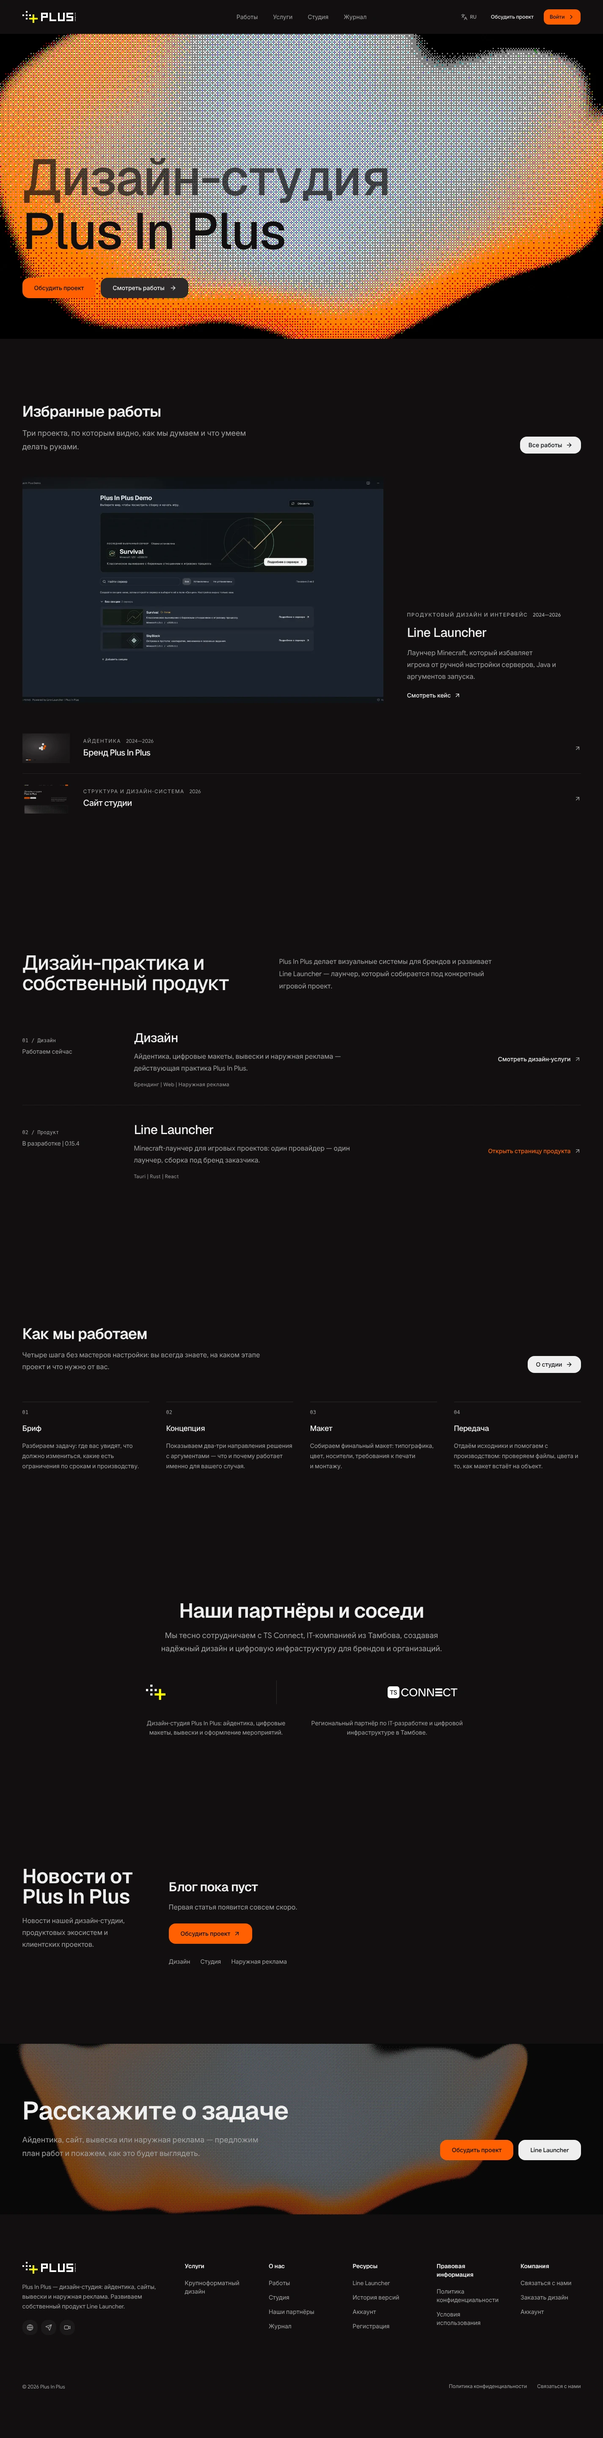
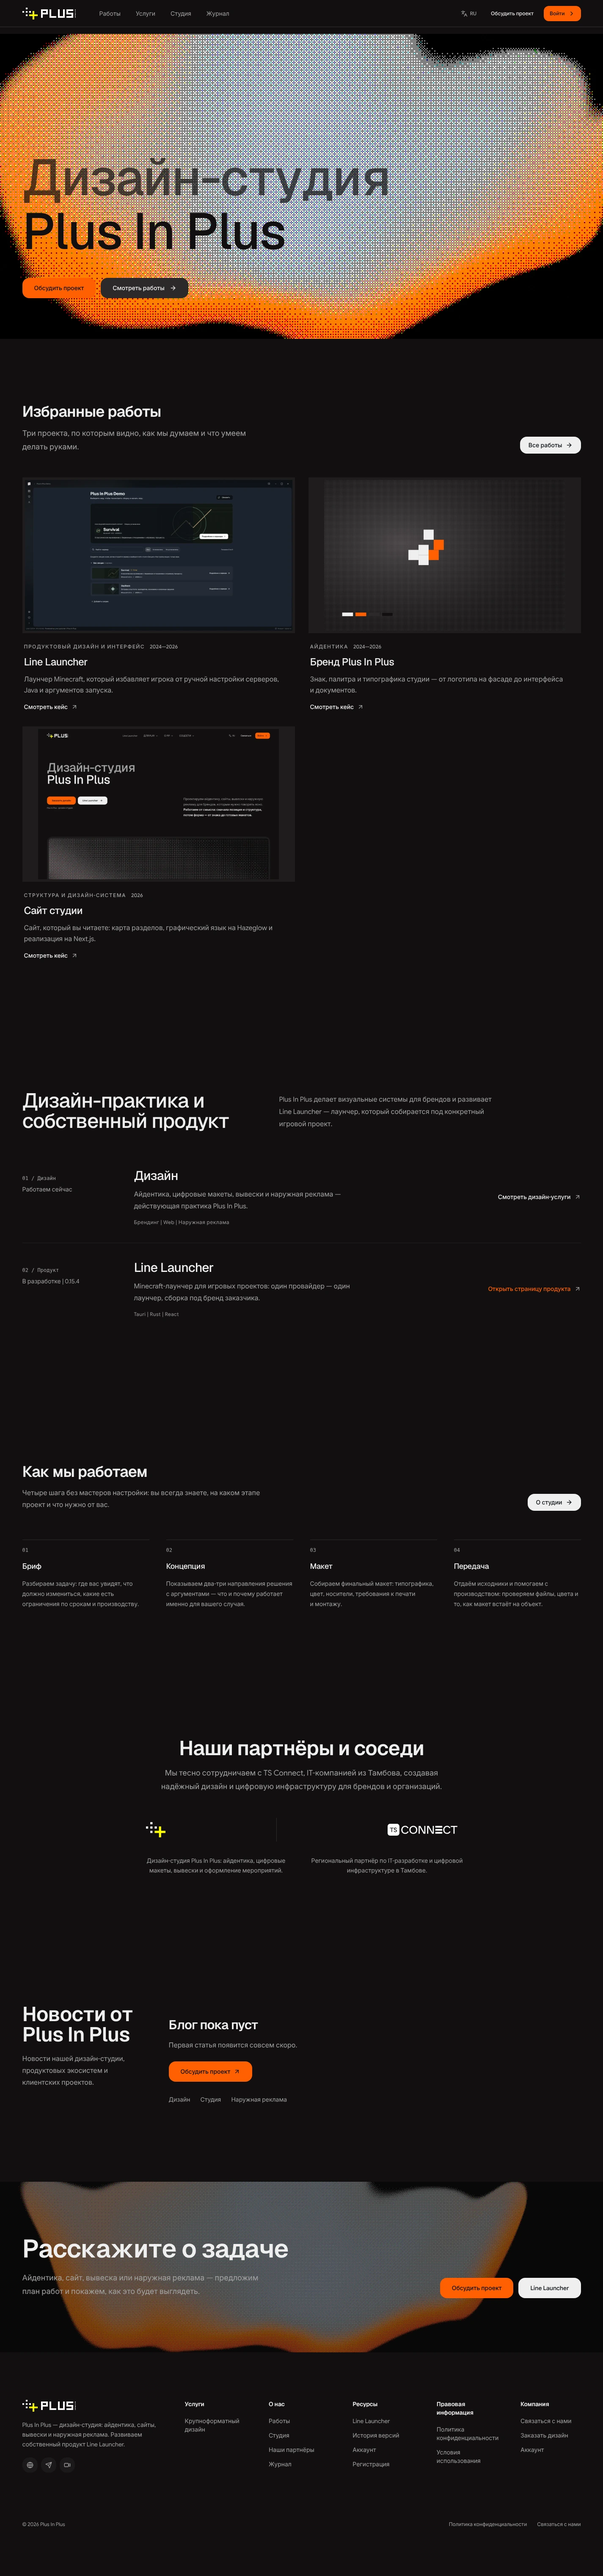
Работы по сетке JetBrains, плотная шапка, метаданные продукта без подписей
- «Работы» и «Избранные работы»: одинаковые карточки в сетке 2 колонки, кадр
  показывается целиком (object-contain в единой рамке 16:9), первый кейс —
  широкая карточка. Ничего не режется по краям, высоты выровнены.
- Шапка: вместо стекла — плотная панель #110F10 высотой 64 px с линией снизу,
  логотип и меню в одну колонку слева, действия справа. Ближе к шапке JetBrains.
- Line Launcher: служебные подписи в метаданных продукта убраны, остались
  только значения — платформы, стек, основа, код.

diff --git a/components/site/work-index.tsx b/components/site/work-index.tsx
@@ -1,11 +1,11 @@
 import Link from "next/link";
-import { ArrowRight, ArrowUpRight } from "lucide-react";
+import { ArrowRight } from "lucide-react";
 
-import { HoverGlow } from "@/components/site/hover-glow";
+import { WorkCard } from "@/components/site/work-card";
 import { Button } from "@/components/ui/button";
 import { getRequestLocale } from "@/lib/request-locale";
 import { getRequestTranslations } from "@/lib/server-i18n";
-import { localizeWorkCases, WORK_CASES, type LocalizedWorkCase } from "@/lib/work-cases";
+import { localizeWorkCases, WORK_CASES } from "@/lib/work-cases";
 import { cn } from "@/lib/utils";
 
 interface WorkIndexProps {
@@ -42,7 +42,6 @@ export async function WorkIndex({
   ]);
   const workLocale = locale === "ru" ? "ru" : "en";
   const items = localizeWorkCases(WORK_CASES, workLocale).slice(0, limit ?? WORK_CASES.length);
-  const [featured, ...rest] = items;
   const Heading = compact ? "h2" : "h1";
 
   return (
@@ -72,103 +71,22 @@ export async function WorkIndex({
           ) : null}
         </div>
 
-        {featured ? (
-          <div className="mt-12 grid gap-8 lg:mt-14 lg:grid-cols-[1.35fr_0.65fr] lg:items-end lg:gap-14">
-            <Link
-              href={`/work/${featured.slug}`}
-              aria-label={featured.title}
-              className="group relative block overflow-hidden bg-white/[0.045] focus-visible:outline-solid focus-visible:outline-2 focus-visible:outline-offset-4 focus-visible:outline-ring"
-            >
-              <img
-                src={featured.cover}
-                alt={featured.coverAlt}
-                loading={compact ? "lazy" : "eager"}
-                decoding="async"
-                className="aspect-[16/10] w-full object-cover object-top opacity-95 transition-opacity duration-500 ease-out group-hover:opacity-100"
-              />
-            </Link>
-
-            <div className="relative flex flex-col gap-4 overflow-hidden lg:pb-2">
-              <HoverGlow pattern={`work:${featured.slug}`} intensity={0.4} />
-              <p className="flex flex-wrap items-center gap-x-3 gap-y-1 text-xs font-medium tracking-[0.12em] text-muted-foreground uppercase">
-                <span>{featured.discipline}</span>
-                <span className="tracking-normal normal-case">{featured.year}</span>
-              </p>
-              <h3 className="text-2xl font-medium tracking-tight text-balance md:text-3xl">
-                <Link
-                  href={`/work/${featured.slug}`}
-                  className="transition-colors hover:text-foreground focus-visible:outline-solid focus-visible:outline-2 focus-visible:outline-offset-4 focus-visible:outline-ring"
-                >
-                  {featured.title}
-                </Link>
-              </h3>
-              <p className="text-sm leading-[1.75] text-muted-foreground md:text-base">
-                {featured.summary}
-              </p>
-              <Link
-                href={`/work/${featured.slug}`}
-                className="group/open mt-1 inline-flex items-center gap-2 text-sm font-medium text-foreground focus-visible:outline-solid focus-visible:outline-2 focus-visible:outline-offset-4 focus-visible:outline-ring"
-              >
-                {t("open")}
-                <ArrowUpRight
-                  aria-hidden="true"
-                  className="size-4 transition-[transform,color] duration-200 group-hover/open:-translate-y-0.5 group-hover/open:translate-x-0.5"
-                />
-              </Link>
-            </div>
-          </div>
-        ) : null}
-
-        {rest.length > 0 ? (
-          <ul className="mt-12 divide-y divide-white/[0.08]">
-            {rest.map((item) => (
-              <WorkRow key={item.slug} item={item} openLabel={t("open")} />
-            ))}
-          </ul>
-        ) : null}
+        {/* Сетка как у JetBrains: одинаковые карточки, один шаг между ними.
+            Кадр показывается целиком (object-contain) — ничего не режется по
+            краям, а подложка карточки держит общий фон под ним. */}
+        <div className="mt-12 grid gap-6 sm:grid-cols-2 lg:mt-14 lg:gap-8">
+          {items.map((item, index) => (
+            <WorkCard
+              key={item.slug}
+              item={item}
+              openLabel={t("open")}
+              featured={!compact && index === 0}
+              className={!compact && index === 0 ? "sm:col-span-2" : undefined}
+            />
+          ))}
+        </div>
       </div>
     </section>
   );
 }
 
-/**
- * Строка портфолио: миниатюра, дисциплина и название. Без карточной
- * подложки — разделители держат ритм, а ссылка реагирует фоном и стрелкой.
- */
-function WorkRow({ item, openLabel }: { item: LocalizedWorkCase; openLabel: string }) {
-  return (
-    <li>
-      <Link
-        href={`/work/${item.slug}`}
-        className="group flex items-center gap-5 py-5 transition-colors hover:bg-white/[0.035] focus-visible:bg-white/[0.05] focus-visible:outline-solid focus-visible:outline-2 focus-visible:outline-offset-2 focus-visible:outline-ring sm:gap-8 sm:py-6"
-      >
-        <span className="relative block w-20 shrink-0 overflow-hidden bg-white/[0.05] sm:w-28">
-          <img
-            src={item.cover}
-            alt=""
-            aria-hidden="true"
-            loading="lazy"
-            decoding="async"
-            className="aspect-[16/10] w-full object-cover object-top opacity-90 transition-opacity duration-300 ease-out group-hover:opacity-100"
-          />
-        </span>
-
-        <span className="min-w-0 flex-1">
-          <span className="flex flex-wrap items-center gap-x-3 gap-y-1 text-xs text-muted-foreground">
-            <span className="tracking-[0.12em] uppercase">{item.discipline}</span>
-            <span>{item.year}</span>
-          </span>
-          <span className="mt-1.5 block truncate text-lg font-medium tracking-tight sm:text-xl">
-            {item.title}
-          </span>
-          <span className="sr-only">{openLabel}</span>
-        </span>
-
-        <ArrowUpRight
-          aria-hidden="true"
-          className="size-4 shrink-0 text-muted-foreground transition-[transform,color] duration-200 group-hover:-translate-y-0.5 group-hover:translate-x-0.5 group-hover:text-foreground"
-        />
-      </Link>
-    </li>
-  );
-}

diff --git a/components/blocks/navbar10.tsx b/components/blocks/navbar10.tsx
@@ -241,15 +241,15 @@ const Navbar10 = () => {
         */}
         <div
           aria-hidden="true"
-          className="site-header-glass pointer-events-none absolute inset-0"
+          className="pointer-events-none absolute inset-0 bg-background [background-image:linear-gradient(to_right,rgba(255,255,255,0.14),rgba(255,255,255,0.14))] [background-position:bottom] [background-repeat:no-repeat] [background-size:100%_1px]"
         />
         <NavigationMenu
           value={openSection}
           onValueChange={setOpenSection}
           onPointerLeave={closeSectionDeferred}
-          className="h-20 max-w-full after:absolute after:inset-0 after:z-40 after:block after:size-full after:bg-transparent after:content-[''] [&>div:last-child>div]:mt-0 [&>div:last-child>div]:rounded-none [&>div:last-child>div]:border-0 [&>div:last-child>div]:border-b-0"
+          className="h-16 max-w-full after:absolute after:inset-0 after:z-40 after:block after:size-full after:bg-transparent after:content-[''] [&>div:last-child>div]:mt-0 [&>div:last-child>div]:rounded-none [&>div:last-child>div]:border-0 [&>div:last-child>div]:border-b-0"
         >
-          <div className="container relative z-50 grid w-full grid-cols-2 items-center justify-between gap-4 lg:grid-cols-3 lg:gap-8">
+          <div className="container relative z-50 flex w-full items-center gap-4 lg:gap-10">
             <Link
               href="/"
               onClick={() => setOpen(false)}
@@ -258,7 +258,7 @@ const Navbar10 = () => {
               <HeaderWordmarkLogo />
             </Link>
 
-            <div className="hidden justify-self-center lg:flex">
+            <div className="hidden lg:flex">
               <NavigationMenuList>
                 {navigation.map((item, index) => (
                   <DesktopMenuItem
@@ -273,7 +273,7 @@ const Navbar10 = () => {
               </NavigationMenuList>
             </div>
 
-            <div className="justify-self-end">
+            <div className="ml-auto">
               <div className="hidden items-center gap-2.5 lg:flex">
                 <LanguageSwitcher />
                 {session?.user ? <CartIcon count={cartCount} /> : null}

diff --git a/components/site/line-launcher-view.tsx b/components/site/line-launcher-view.tsx
@@ -109,16 +109,15 @@ export async function LineLauncherView() {
                 </p>
               </div>
 
-              <dl className="mt-10 flex flex-wrap gap-x-8 gap-y-3 text-sm">
+              {/* Метаданные продукта — только значения, без служебных подписей
+                  вроде «платформы» или «стек»: они дублировали смысл. */}
+              <ul className="mt-10 flex flex-wrap gap-x-8 gap-y-2 text-sm">
                 {facts.map((fact) => (
-                  <div key={fact.label} className="flex items-baseline gap-2">
-                    <dt className="text-xs tracking-[0.14em] text-muted-foreground uppercase">
-                      {fact.label}
-                    </dt>
-                    <dd className="font-medium">{fact.value}</dd>
-                  </div>
+                  <li key={fact.value} className="font-medium">
+                    {fact.value}
+                  </li>
                 ))}
-              </dl>
+              </ul>
             </div>
 
             <div>

diff --git a/components/site/work-card.tsx b/components/site/work-card.tsx
@@ -39,7 +39,7 @@ export function WorkCard({ item, openLabel, featured = false, className }: WorkC
           loading="lazy"
           decoding="async"
           className={cn(
-            "aspect-[16/10] w-full object-cover object-top",
+            "aspect-video w-full object-contain",
           )}
         />
       </div>
